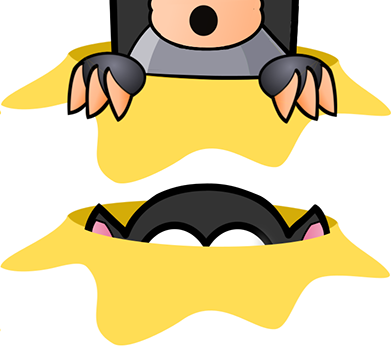
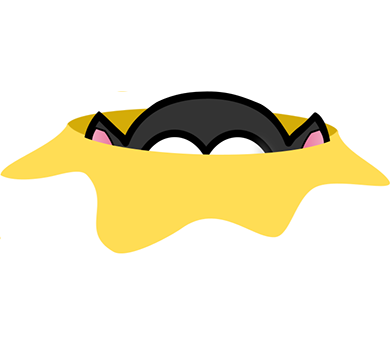
push

diff --git a/Properties/Resources.Designer.cs b/Properties/Resources.Designer.cs
@@ -73,6 +73,76 @@ namespace Wack_A_Mole.Properties {
         /// <summary>
         ///   Looks up a localized resource of type System.Drawing.Bitmap.
         /// </summary>
+        internal static System.Drawing.Bitmap hit1 {
+            get {
+                object obj = ResourceManager.GetObject("hit1", resourceCulture);
+                return ((System.Drawing.Bitmap)(obj));
+            }
+        }
+        
+        /// <summary>
+        ///   Looks up a localized resource of type System.Drawing.Bitmap.
+        /// </summary>
+        internal static System.Drawing.Bitmap hit2 {
+            get {
+                object obj = ResourceManager.GetObject("hit2", resourceCulture);
+                return ((System.Drawing.Bitmap)(obj));
+            }
+        }
+        
+        /// <summary>
+        ///   Looks up a localized resource of type System.Drawing.Bitmap.
+        /// </summary>
+        internal static System.Drawing.Bitmap hit3 {
+            get {
+                object obj = ResourceManager.GetObject("hit3", resourceCulture);
+                return ((System.Drawing.Bitmap)(obj));
+            }
+        }
+        
+        /// <summary>
+        ///   Looks up a localized resource of type System.Drawing.Bitmap.
+        /// </summary>
+        internal static System.Drawing.Bitmap hit4 {
+            get {
+                object obj = ResourceManager.GetObject("hit4", resourceCulture);
+                return ((System.Drawing.Bitmap)(obj));
+            }
+        }
+        
+        /// <summary>
+        ///   Looks up a localized resource of type System.Drawing.Bitmap.
+        /// </summary>
+        internal static System.Drawing.Bitmap hit5 {
+            get {
+                object obj = ResourceManager.GetObject("hit5", resourceCulture);
+                return ((System.Drawing.Bitmap)(obj));
+            }
+        }
+        
+        /// <summary>
+        ///   Looks up a localized resource of type System.Drawing.Bitmap.
+        /// </summary>
+        internal static System.Drawing.Bitmap hit6 {
+            get {
+                object obj = ResourceManager.GetObject("hit6", resourceCulture);
+                return ((System.Drawing.Bitmap)(obj));
+            }
+        }
+        
+        /// <summary>
+        ///   Looks up a localized resource of type System.Drawing.Bitmap.
+        /// </summary>
+        internal static System.Drawing.Bitmap hit7 {
+            get {
+                object obj = ResourceManager.GetObject("hit7", resourceCulture);
+                return ((System.Drawing.Bitmap)(obj));
+            }
+        }
+        
+        /// <summary>
+        ///   Looks up a localized resource of type System.Drawing.Bitmap.
+        /// </summary>
         internal static System.Drawing.Bitmap Hole {
             get {
                 object obj = ResourceManager.GetObject("Hole", resourceCulture);
@@ -86,6 +156,26 @@ namespace Wack_A_Mole.Properties {
         internal static System.Drawing.Bitmap Mole1 {
             get {
                 object obj = ResourceManager.GetObject("Mole1", resourceCulture);
+                return ((System.Drawing.Bitmap)(obj));
+            }
+        }
+        
+        /// <summary>
+        ///   Looks up a localized resource of type System.Drawing.Bitmap.
+        /// </summary>
+        internal static System.Drawing.Bitmap Mole2 {
+            get {
+                object obj = ResourceManager.GetObject("Mole2", resourceCulture);
+                return ((System.Drawing.Bitmap)(obj));
+            }
+        }
+        
+        /// <summary>
+        ///   Looks up a localized resource of type System.Drawing.Bitmap.
+        /// </summary>
+        internal static System.Drawing.Bitmap Mole3 {
+            get {
+                object obj = ResourceManager.GetObject("Mole3", resourceCulture);
                 return ((System.Drawing.Bitmap)(obj));
             }
         }

diff --git a/Form1.cs b/Form1.cs
@@ -10,7 +10,8 @@ namespace Wack_A_Mole
 
         Random rand = new Random();
         List<PictureBox> items = new List<PictureBox>();
-        static Image mole = Wack_A_Mole.Properties.Resources.Mole1;
+        static Image mole = Wack_A_Mole.Properties.Resources.Mole3;
+        static Image nomole = Wack_A_Mole.Properties.Resources.Hole;
         int score = 0;
 
         public Form1()
@@ -22,34 +23,37 @@ namespace Wack_A_Mole
         private void PictureBox_Click(object sender, EventArgs e)
         {
             PictureBox tempPic = sender as PictureBox;
-            score += 10;
-            items.Remove(tempPic);
-            tempPic.Visible = false;
-            lblScore.Text = "Score: " + score;
+            score += 10; // Increment the score
+            lblScore.Text = "Score: " + score; // Update score label
 
+            // Change the image to 'nomole'
+            tempPic.BackgroundImage = nomole;
+            tempPic.BackgroundImageLayout = ImageLayout.Stretch; // Ensure the image fits properly
         }
+
+
 
         private void Mole_ShowUp()
         {
+            // Add all PictureBox controls to the list
             items.AddRange(new PictureBox[] { pictureBox1, pictureBox2, pictureBox3, pictureBox4, pictureBox5,
-                pictureBox6, pictureBox7, pictureBox8, pictureBox9, pictureBox10, pictureBox11, pictureBox12,
-                pictureBox13, pictureBox14, pictureBox15 });
+        pictureBox6, pictureBox7, pictureBox8, pictureBox9, pictureBox10, pictureBox11, pictureBox12,
+        pictureBox13, pictureBox14, pictureBox15 });
 
-            int randPicBox = rand.Next(15);
+           
+           
 
-            foreach (PictureBox pic in items)
-            {
-                
-            }
+            // Select a random PictureBox to display the mole
+            int randPicBox = rand.Next(items.Count);
+            items[randPicBox].BackgroundImage = mole; // Set the mole image as the background
+            items[randPicBox].BackgroundImageLayout = ImageLayout.Stretch; // Optional: ensures the image fits
+           
         }
-
         private void MoleTimer_Tick(object sender, EventArgs e)
         {
             Mole_ShowUp();
         }
     }
-
-
 }
 
 

diff --git a/Form1.Designer.cs b/Form1.Designer.cs
@@ -260,6 +260,7 @@
             // MoleTimer
             // 
             this.MoleTimer.Enabled = true;
+            this.MoleTimer.Interval = 1000;
             this.MoleTimer.Tick += new System.EventHandler(this.MoleTimer_Tick);
             // 
             // Form1
